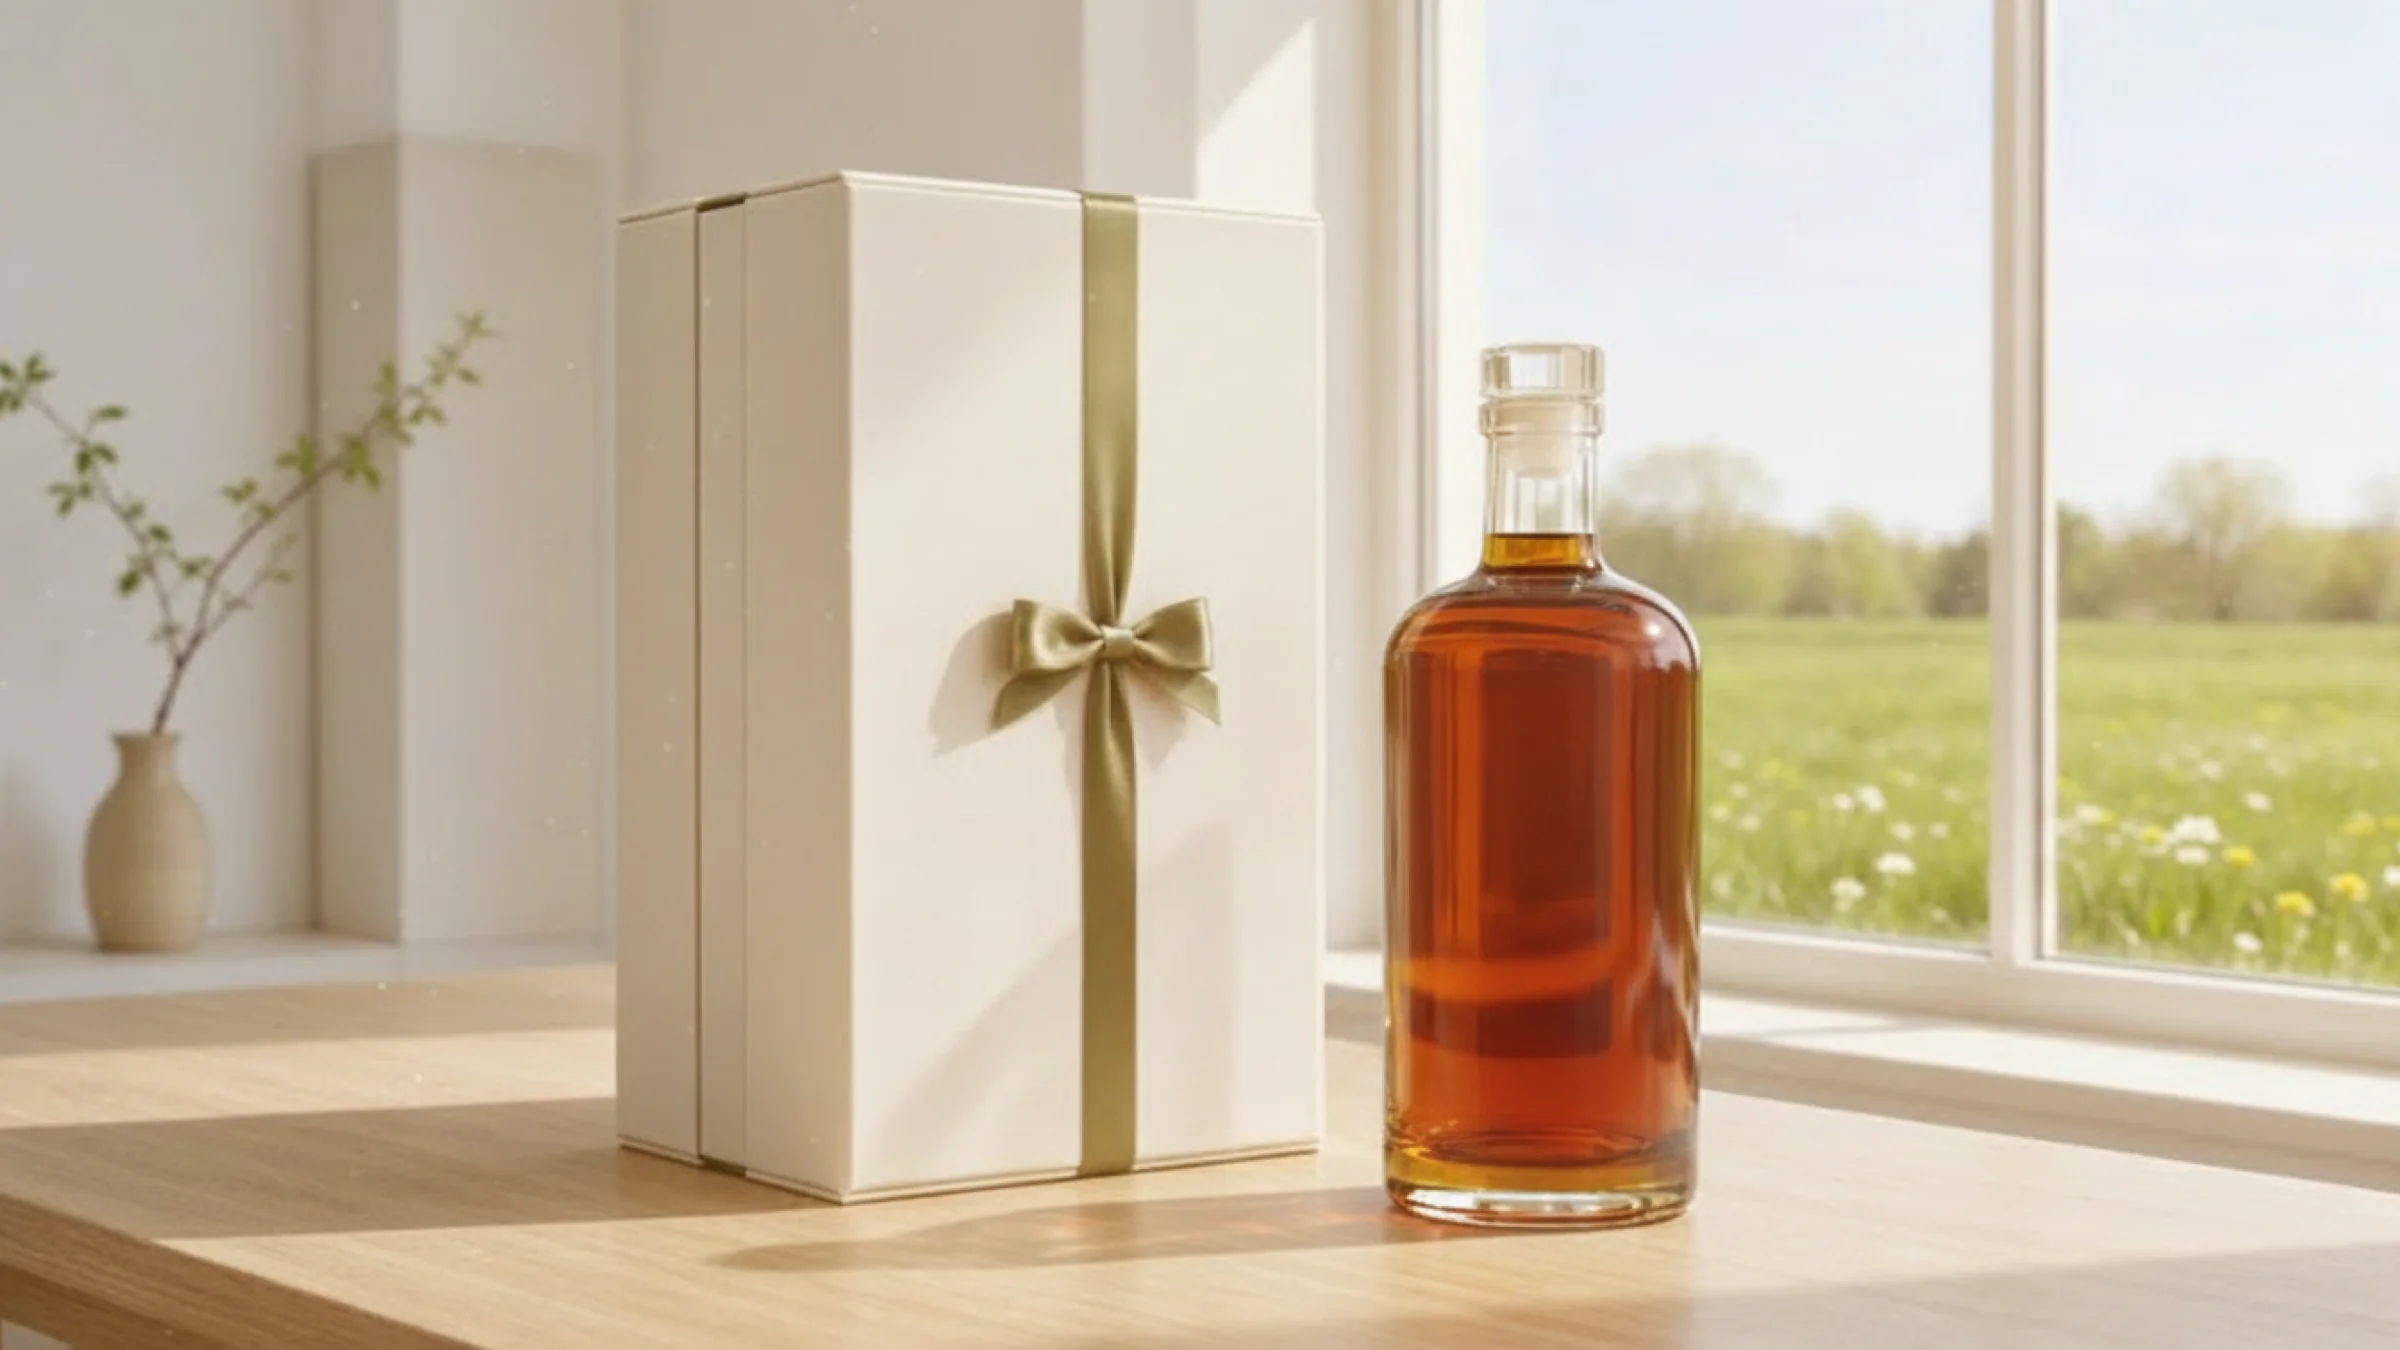
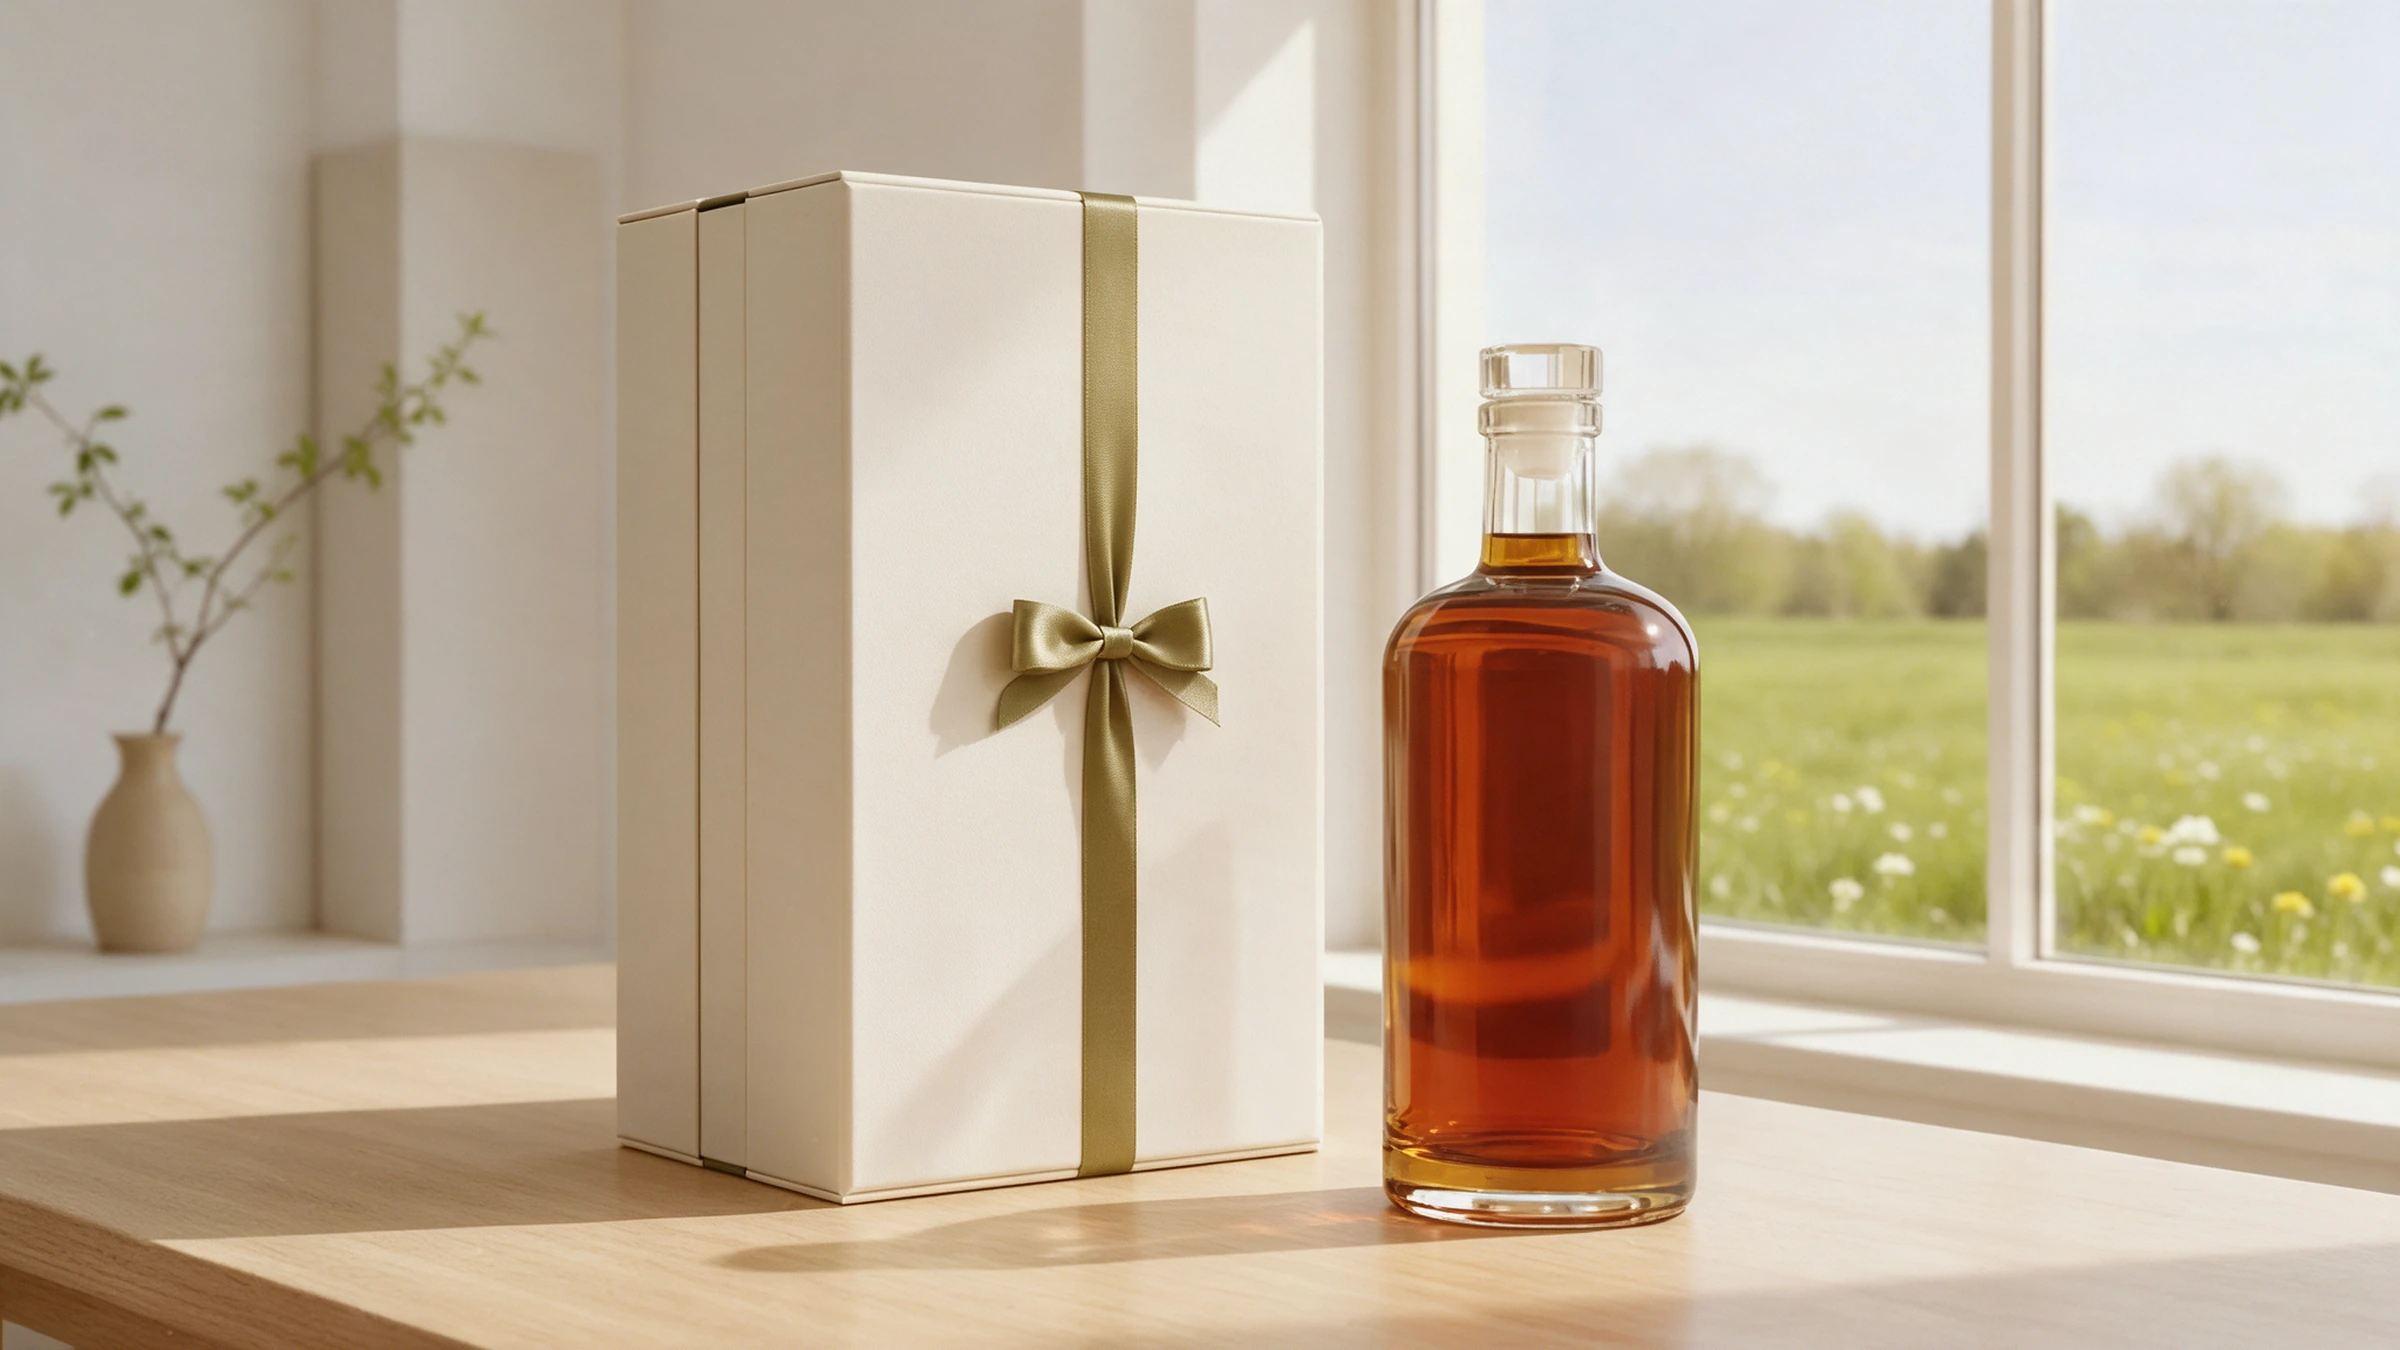
Фото occasions/copper: перегенерація Seedream 5 Pro для різкості (tasting, gift, collection, copper)

diff --git a/MEDIA.md b/MEDIA.md
@@ -205,3 +205,10 @@ Barley Spirit і Oak Notes — темне скло й вміст; White Whiskey 
 - `img/events-hero-festive.webp` (2400×1600, 398 КБ) — РЕАЛЬНЕ фото відкриття дистилерії: `photo/Фото Яснокрафт 6/Відкриття_частина2/605A1146.jpg` (зал із бочками YASNOCRAFT/BAZYLSPRINGS, золоті промені, облич немає). Тимчасовий вибір оркестратора за коментарем замовника 7c87d20f («святкове фото з папки реальних»); замінюється за вибором замовника. Кандидати: `img/proto-bg/events-hero-1..8.webp`. Кадрування — типове (object-fit: cover, центр); окремого поля imgPos у hero немає.
 - `img/events-deck-social.webp` (1900×1480, 294 КБ) — events, колода «Формат вечора», картка 4 «Час для спілкування». РЕАЛЬНЕ фото гостей відкриття: `photo/Фото Яснокрафт 7/Відкриття_частина2/605A2351.jpg` (6000×4000, кроп 1900×1480 із лівого краю): 4 гості (2 жінки, 2 чоловіки) з келихами біля бочки, усміхаються в камеру. ПОТРІБНА ЗГОДА/ПРАВО НА ПУБЛІКАЦІЮ людей — підтвердити замовнику. Кандидати: `img/proto-bg/events-card4-1..3.webp` (2: 605A2019 тост удвох; 3: 605A2088 трійка друзів), макет на proto-bg.html.
 - Попередній hero (`img/distillery-tour.webp`) на events більше не використовується; файл лишається (слот «Усе в одному місці»).
+
+## Підвищення різкості фото (21.10.2026, коментарі замовника 1598e2d7 / 3ee25e9c «жахлива якість»)
+- Причина: кадри occasions були генерацією 1344×768, розтягнутою до 2400×1350 (Laplacian-variance 6–12). Оригінальні PNG (scratchpad bg-gen4) відсутні, тому за джерело взято поточні файли (зменшені до 1344×768).
+- Експеримент на tasting: Magnific creative upscale 2× (subtle, 90 кр.) дав лише 11.7→17 (майже без змін, лишилась м'якість) → відхилено. Seedream 5 Pro 2k (75 кр., image-референс + промпт «та сама композиція, максимальна різкість») дав ×18 різкості; обрано.
+- Замінено: `occasions/tasting.webp` (2400×1350, 515 КБ, Lap 11.7→186), `occasions/gift.webp` (335 КБ, 6.1→33.5), `occasions/collection.webp` (600 КБ, 21→78), `excursions-tex-copper.webp` (1024²→1536², 317 КБ, нативно різкіше). Композиція збережена; у tasting зникла кам'яна стінка праворуч (дрібна відмінність).
+- `occasions/bar.webp` НЕ замінено: Pro-перегенерація замінила дерев'яну стійку на мармуровий моноліт (зміна сюжету), бюджет 500 кр. вичерпано. Залишається 2400×1350 (Lap 57).
+- Витрати: 465 кр. (1 upscale 90 + 5 Pro × 75). Баланс 38 959 → 38 494. Усі кадри AI, на затвердження замовнику.
